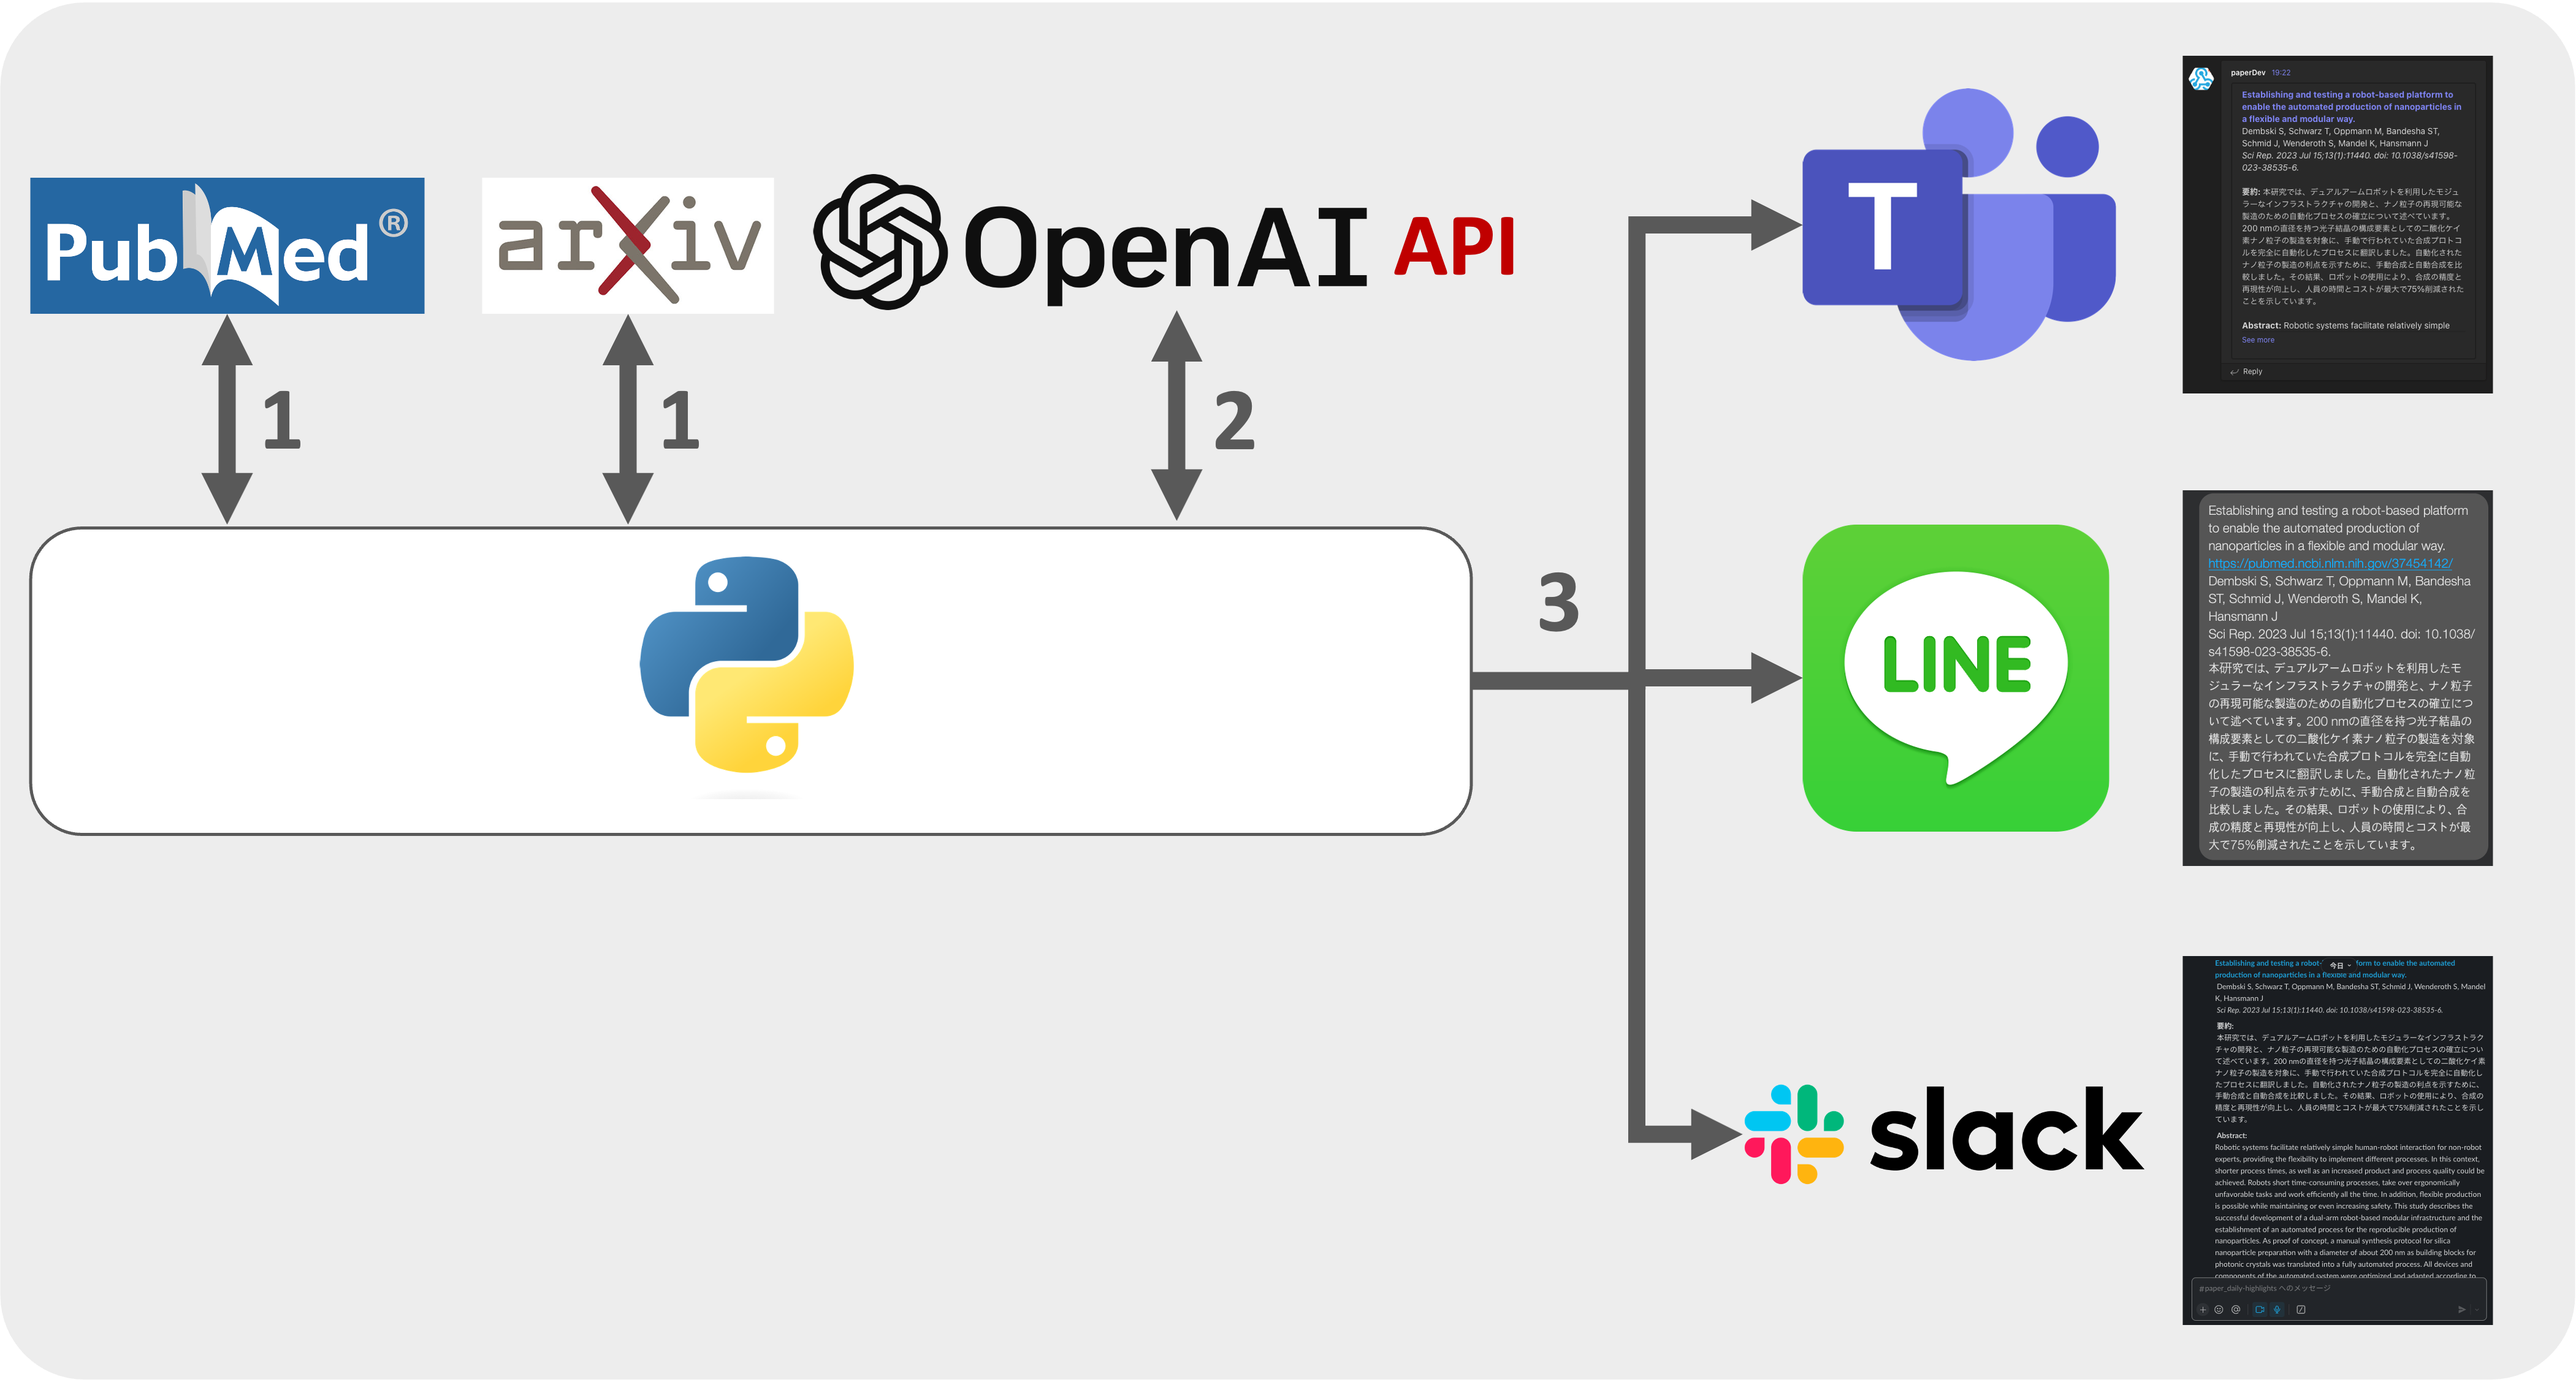
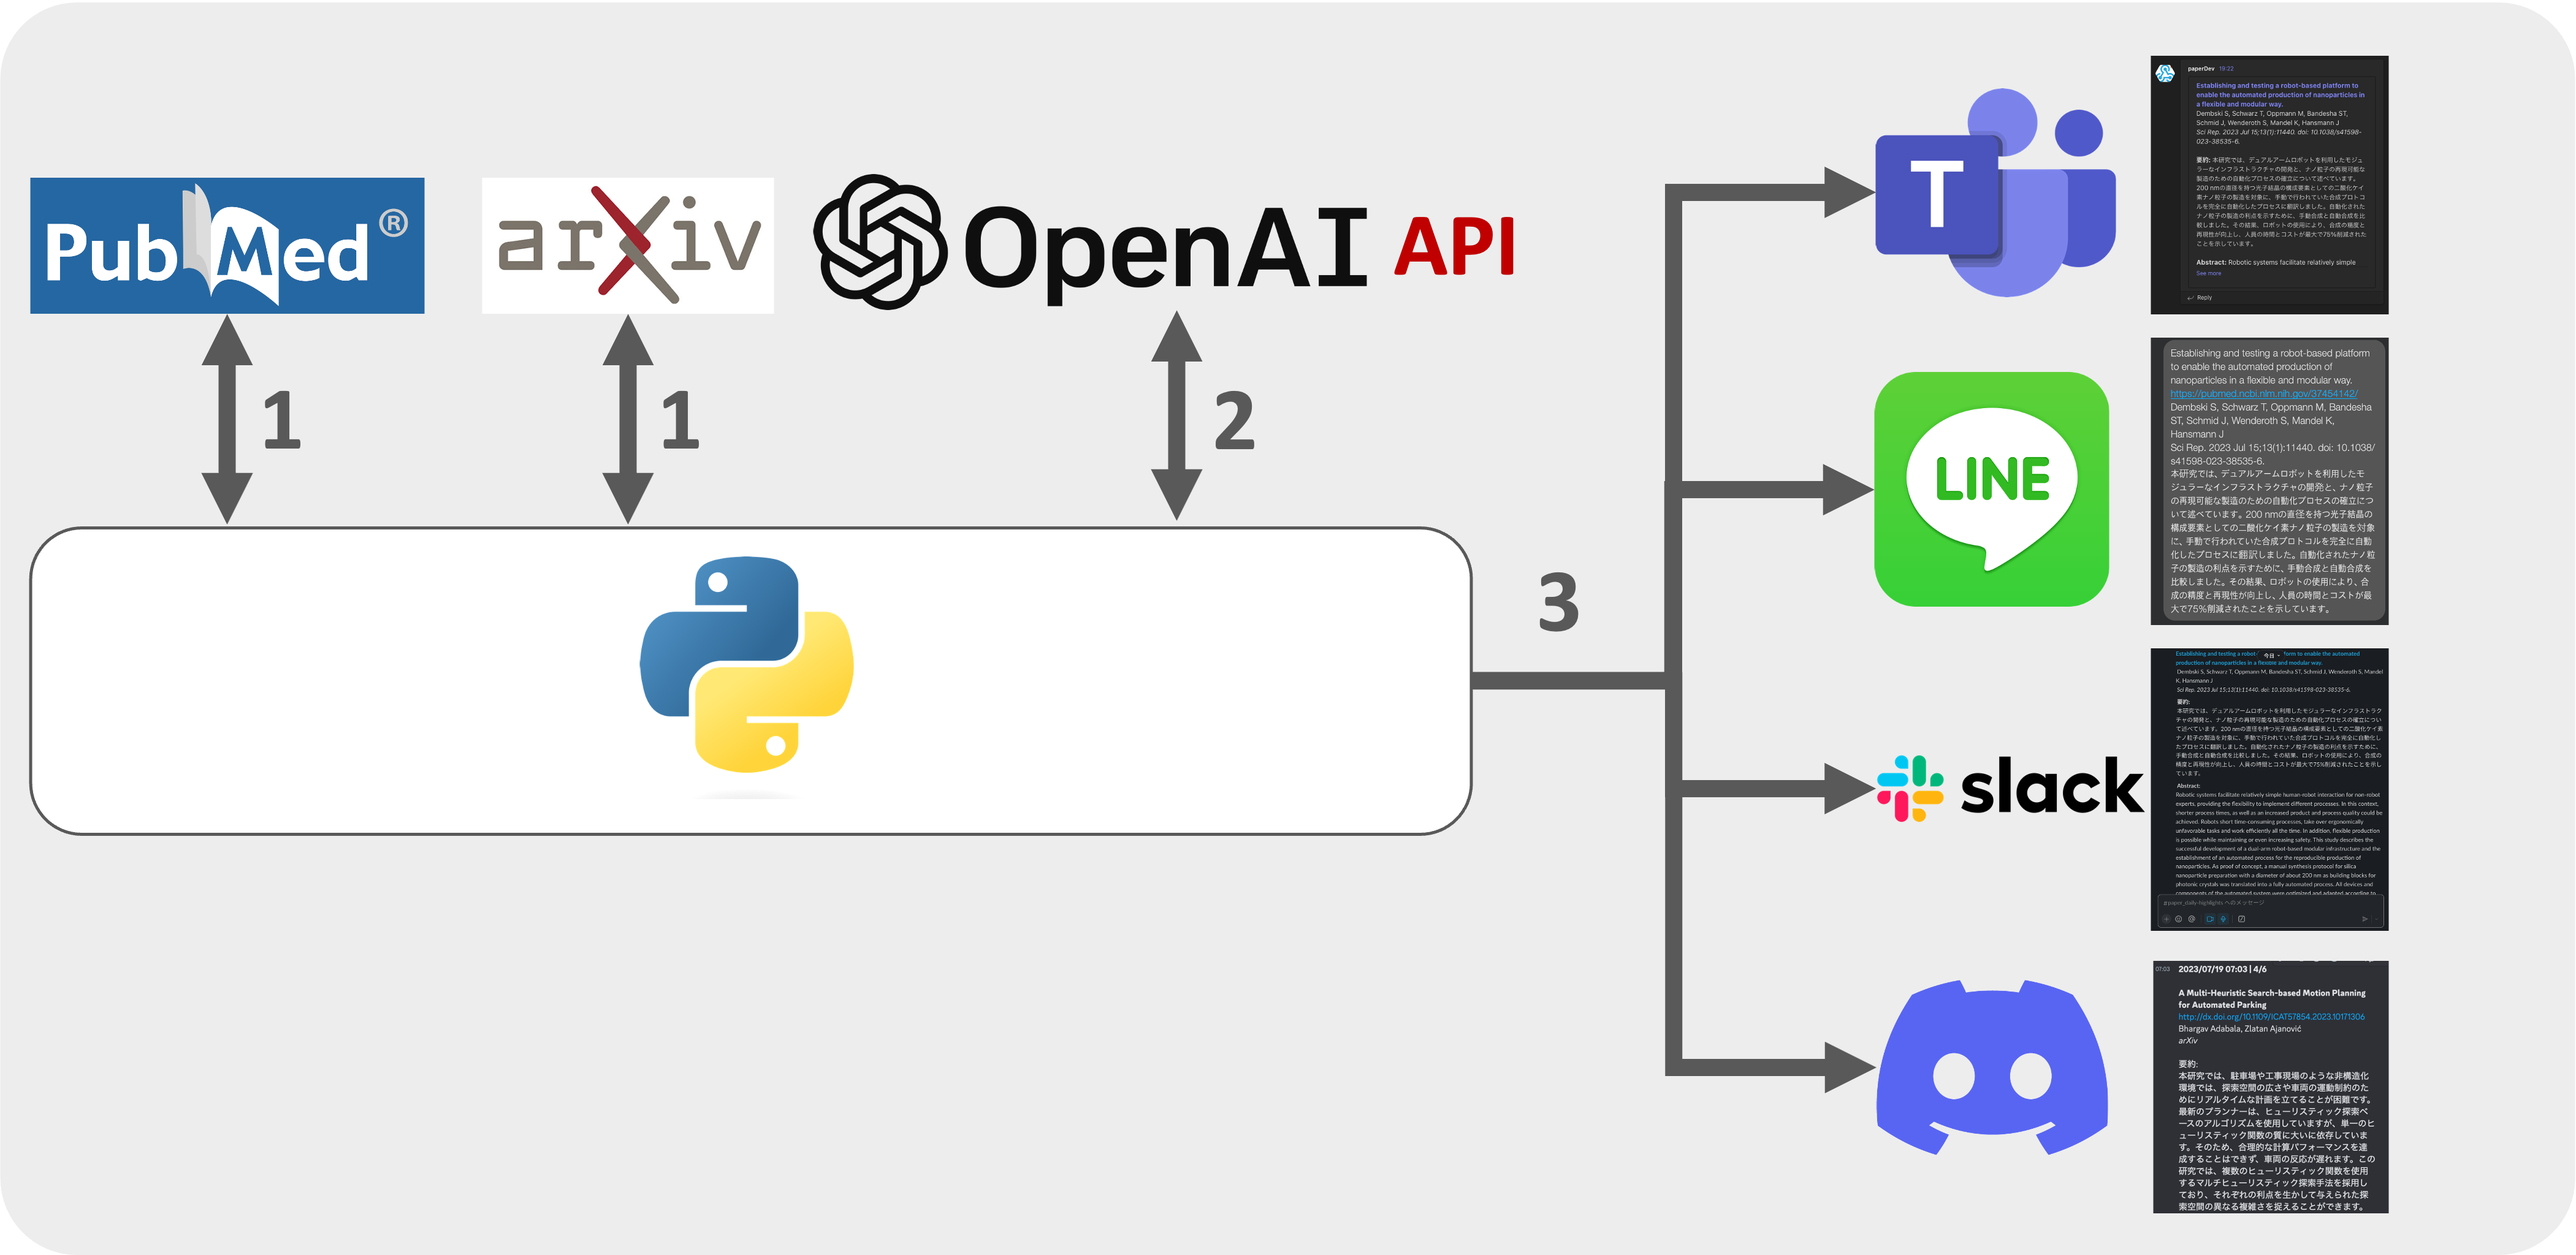
ver1.1

diff --git a/keys_tokens.py b/keys_tokens.py
@@ -4,3 +4,4 @@ SLACK_WEBHOOK_URL = "your_slack_webhook_url"
 OPENAI_API_KEY = "your_openai_api_key"
 LINE_TOKEN = "your_line_token"
 LINE_CHANNEL_ID = "your_line_channel_id"
+DISCORD_WEBHOOK_URL="your_discord_webhook_url"
